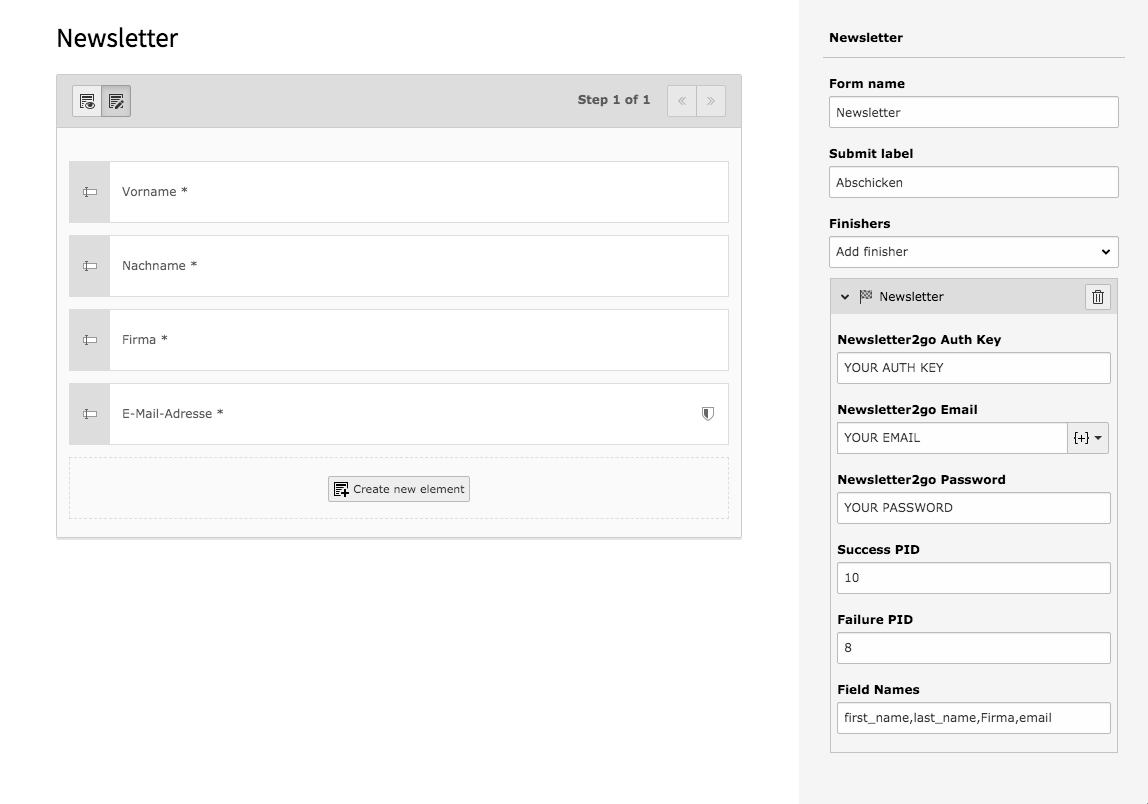
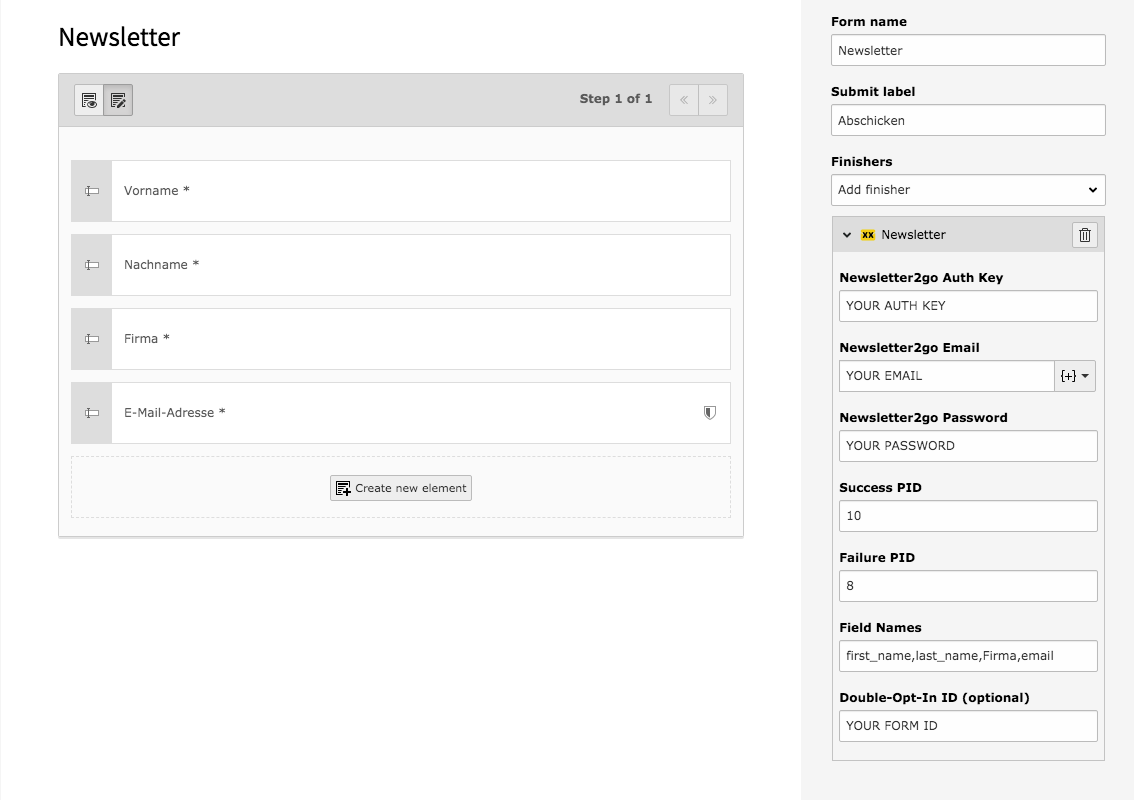
release 1.3.0

diff --git a/Classes/Domain/Finishers/NewsletterFinisher.php b/Classes/Domain/Finishers/NewsletterFinisher.php
@@ -50,6 +50,7 @@ class NewsletterFinisher extends \TYPO3\CMS\Form\Domain\Finishers\AbstractFinish
     $successPid = $this->parseOption('successPid');
     $failurePid = $this->parseOption('failurePid');
     $fieldNames = $this->parseOption('fieldNames');
+    $doubleOptIn = $this->parseOption('doubleOptIn');
 
     // Form Values
     $formValues = $this->finisherContext->getFormValues();
@@ -66,7 +67,11 @@ class NewsletterFinisher extends \TYPO3\CMS\Form\Domain\Finishers\AbstractFinish
     $api->setSSLVerification(false);
 
     try {
-      $user = $api->createRecipient($formValues, explode(',', $fieldNames));
+      if ($doubleOptIn !== '') {
+        $response = $api->sendDoubleOptIn($formValues, explode(',', $fieldNames), strtolower($doubleOptIn));
+      } else {
+        $response = $api->createRecipient($formValues, explode(',', $fieldNames));
+      }
     } catch (\Exception $e) {
       $error = true;
 
@@ -80,7 +85,7 @@ class NewsletterFinisher extends \TYPO3\CMS\Form\Domain\Finishers\AbstractFinish
       );
     }
 
-    $pid = (!$error && $user->status <= 201) ? $successPid : $failurePid;
+    $pid = (!$error && $response->status <= 201) ? $successPid : $failurePid;
 
     // create Form's Redirect Finisher
     $formDefinition = $this->finisherContext->getFormRuntime()->getFormDefinition();

diff --git a/Classes/API/Newsletter2goApi.php b/Classes/API/Newsletter2goApi.php
@@ -88,6 +88,28 @@ class Newsletter2goApi
     }
 
     /**
+     * @author BRAINWORXX GmbH
+     *
+     * send double-opt-in email
+     * @param array $formValues
+     * @param array $fieldNames
+     * @param string $id
+     * @return stdClass
+     */
+    public function sendDoubleOptIn($formValues, $fieldNames, $id)
+    {
+        $endpoint = "/forms/submit/$id";
+        $data = array();
+        $keys = array_keys($formValues);
+
+        for ($i = 0; $i < count($fieldNames); $i++) {
+          $data[trim($fieldNames[$i])] = $formValues[$keys[$i]];
+        }
+
+        return $this->curl($endpoint, ["recipient" => $data], static::METHOD_POST);
+    }
+
+    /**
      * get all newsletters in a list
      * @param string $listId
      * @return stdClass

diff --git a/ext_emconf.php b/ext_emconf.php
@@ -15,7 +15,7 @@ $EM_CONF[$_EXTKEY] = [
     'createDirs' => '',
     'clearCacheOnLoad' => 0,
     'state' => 'stable',
-    'version' => '1.2.1',
+    'version' => '1.3.0',
     'constraints' => [
         'depends' => [
             'typo3' => '8.7.0-9.5.99',

diff --git a/Documentation/Config/Index.rst b/Documentation/Config/Index.rst
@@ -51,6 +51,21 @@ Finisher configuration
   first_name, last_name, email. See the
   `API documentation <https://docs.newsletter2go.com>`_ for more information.
 
+* **Double-Opt-In ID (optional):**
+
+  Newsletter2go is capable of sending a double-opt-in email when a new recipient
+  subscribes. Once the customer confirms the addition to the newsletter they
+  will be added. You have to set up a form on
+  `newsletter2go.de <https://www.newsletter2go.de>`_ which uses the
+  double-opt-in service. Once you have done that just copy the id of said form
+  and paste it into this field. If you can't see the id on
+  `newsletter2go.de <https://www.newsletter2go.de>`_ make sure 'Developer Mode'
+  is activated.
+
+  This feature is optional. If you leave this empty the recipients will be
+  added without having to confirm it. Not using said service might cause legal
+  issues. Newsletter2go informs you about what you need and what not.
+
 .. note::
   Note that this finisher should be executed last because it uses Form's
   redirect finisher.

diff --git a/README.rst b/README.rst
@@ -8,6 +8,8 @@ Form Newsletter - Newsletter2go & TYPO3's Form
 
 * Creates a finisher which adds new recipients to your Newsletter2go account.
 
+* The usage of double-opt-in emails is also supported.
+
 * You can add as many fields of information as you want to.
 
 **Useful links:**

diff --git a/Documentation/WhatDoesItDo/Index.rst b/Documentation/WhatDoesItDo/Index.rst
@@ -12,4 +12,6 @@ What does it do?
 
 * Creates a finisher which adds new recipients to your Newsletter2go account.
 
+* The usage of double-opt-in emails is also supported.
+
 * You can add as many fields of information as you want to.
